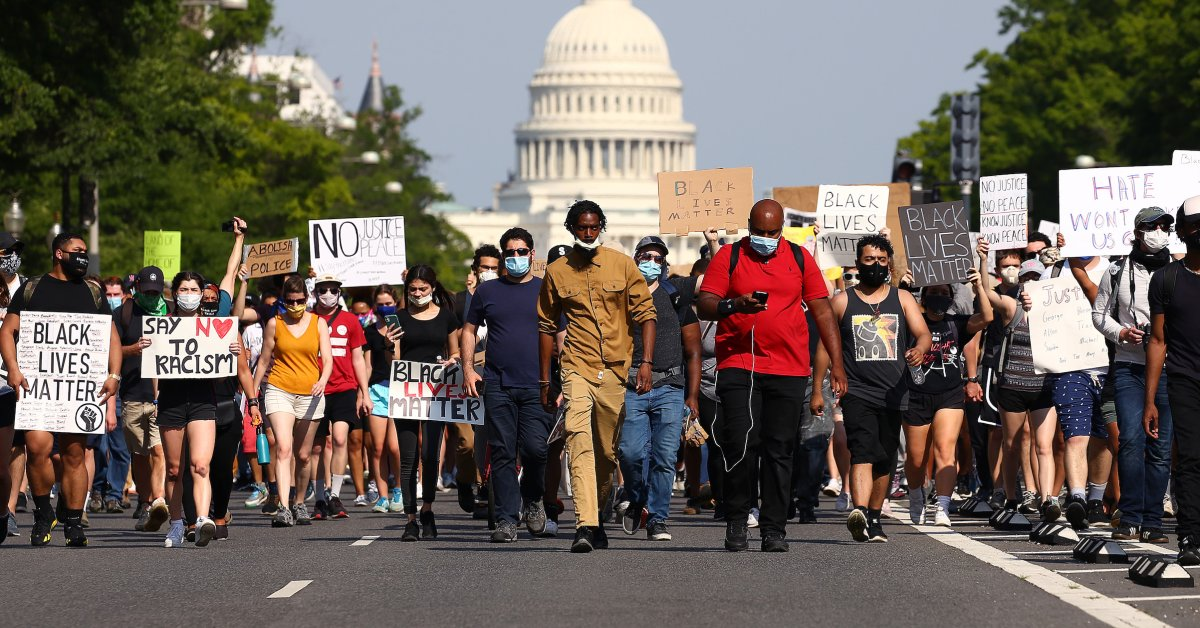
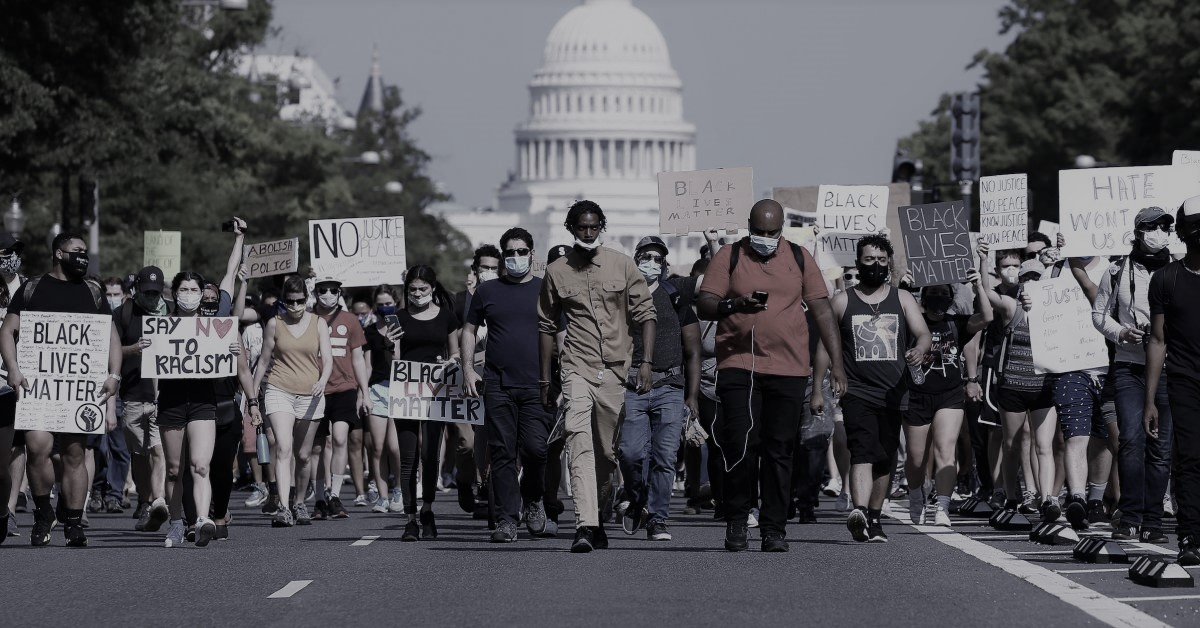
slots for result

diff --git a/templates/base.html b/templates/base.html
@@ -53,7 +53,7 @@
         </nav>
 
         <header class="hero-body">
-          <div class="is-overlay has-text-centered single-spaced" style="top: 182px">
+          <div class="is-overlay has-text-centered single-spaced" style="top: 100px">
             <h1 class="subtitle is-4 has-text-white has-text-weight-light">PROTECT THE</h1>
             <h2 class="title is-1 has-text-white">MÖNKE</h2>
           </div>
@@ -229,7 +229,7 @@
           <form method="post">
             <div class="form-group">
                 <textarea name="content" placeholder="Post Comment"
-                          class="textarea is-medium" rows="10">{{ request.form['content'] }}</textarea>
+                          class="textarea is-medium" rows="7">{{ request.form['content'] }}</textarea>
             </div>
             <div class="form-group" style="padding-top: 1rem;">
                 <button type="submit" class="button is-info is-outlined">Submit</button>
@@ -238,11 +238,23 @@
         </div>
       </div>
 
-      </section>
-
-      <section class="section is-paddingless-horizontal notification">
-        <h1 class="title has-text-black has-text-weight-bold center">results</h1>
-        
+      <h1 class="title has-text-black has-text-weight-bold center" style="padding-top: 2rem;">results</h1>
+      <div class="columns is-mobile is-variable is-4 is-marginless grid-xl center">
+        <div class="column is-4 center">
+          <h1 class="title is-3">image</h1>
+          {% if image is not none %}
+          <img id="result_img" src="{{image}}" width="300" />
+          {% endif %}
+          <!-- image result -->
+        </div>
+        <div class="column is-4">
+          <div class="control">
+            {% if caption is not none %}
+            <textarea class="textarea is-medium" readonly rows="7">{{ caption }}</textarea>
+            {% endif %}
+          </div>
+        </div>
+      </div>
 
       </section>
 

diff --git a/static/css/style.css b/static/css/style.css
@@ -31,7 +31,7 @@ html {
 }
 
 .hero {
-  background: black url(images/hero-1.jpg) center / cover;
+  background: black url(../img/protest.jpeg) center / cover;
 }
 
 @media (max-width: 1024px) {
